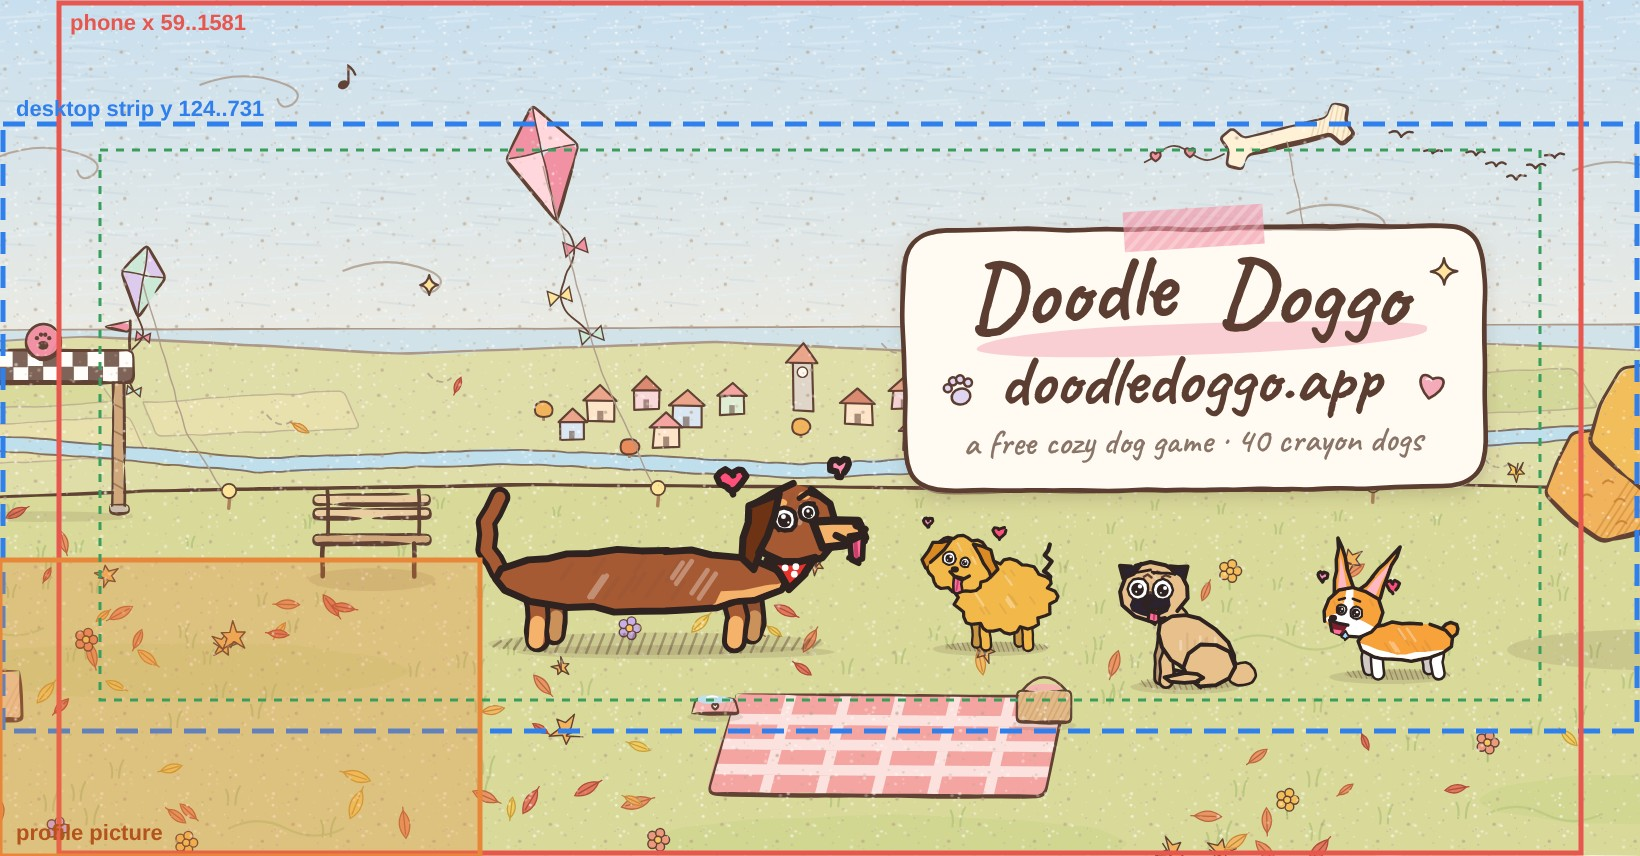
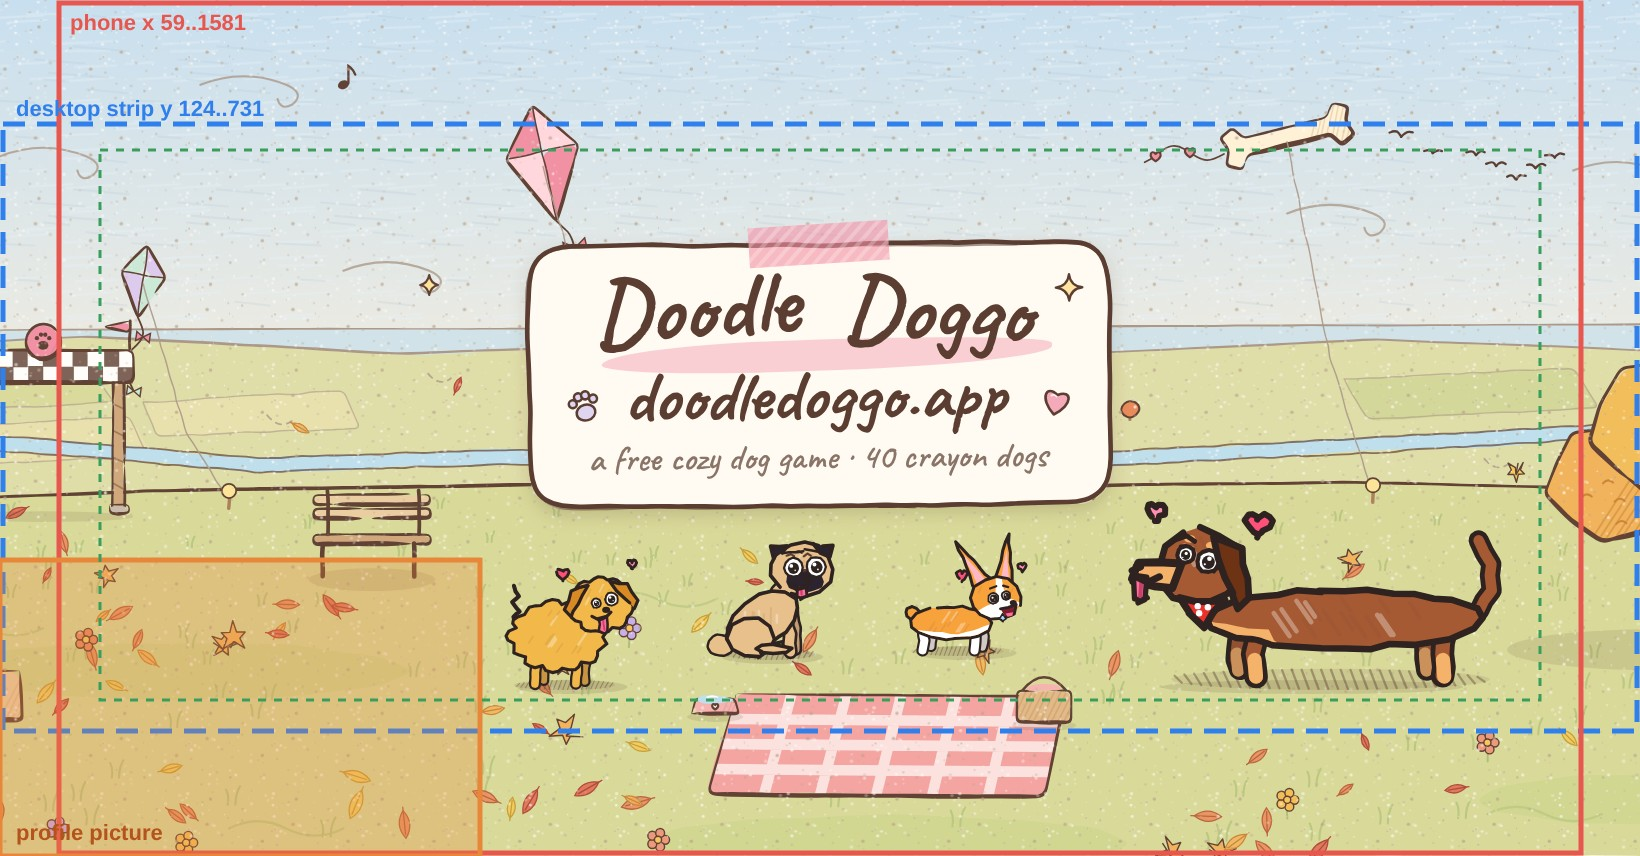
Marketing: Facebook cover with the word box in the centre (owner)
Box centred at x 820 (a little lower, clear of the pink kite); Noodle now right of the box,
golden, pug and corgi under it, clear of the picnic blanket and the profile-picture corner.

Claude-Session: https://claude.ai/code/session_01D6KLY4Gxx78VuyjbRFaSgb

Changed region(s): [[0.2799, 0.243, 0.9329, 0.8201]]

diff --git a/brand/instagram/launch/make_facebook.js b/brand/instagram/launch/make_facebook.js
@@ -1,6 +1,6 @@
 // Facebook Page cover photo (1640 x 856). Desktop shows the middle 2.7:1 strip (y ~124..731), phones show the full height but crop the
 // sides (x ~59..1581), and the Page's profile picture covers the bottom-left corner on both. So the word box, the website and every dog live
-// inside x 100..1540, y 150..700, nothing important sits at x < 480 with y > 560, and the word box stays centre-right.
+// inside x 100..1540, y 150..700, nothing important sits at x < 480 with y > 560, and the word box sits in the centre.
 // Background: the game's Hilltop Meadow on a sunny autumn day (world C 'hilltop', v2.15 art: kites, the village, the river), drawn to fill.
 // Dogs are laid out from their own bounding boxes (hearts included) and checked against each other, the word box and the scene's floor props;
 // every text line is centred in the box by its ink (measured from pixels), and the script throws if anything overlaps or leaves its area.
@@ -32,8 +32,8 @@ module.exports = async function ({ render, browser, helpers: h }) {
       return [x0, y0, x1 + 1, y1 + 1]; }, png);
   };
 
-  // ---------- the word box: centre-right, over the horizon, never under the profile picture ----------
-  const BX = 905, BW = 580, BY = 228, BH = 262, CX = BX + BW / 2, CY = BY + BH / 2;
+  // ---------- the word box: centred (owner, 18 Nov 2026), over the horizon, never under the profile picture ----------
+  const BX = 820 - 290, BW = 580, BY = 244, BH = 262, CX = BX + BW / 2, CY = BY + BH / 2;
   const L = [ // [fragment maker(x, y), first-guess baseline]
     [(x, y) => wordmark(x, y, 92), BY + 100],
     [(x, y) => txt('doodledoggo.app', x, y, 72), BY + 182],
@@ -57,14 +57,14 @@ module.exports = async function ({ render, browser, helpers: h }) {
   const boxG = `<g filter="url(#dd-shadow)"><rect x="${BX}" y="${BY}" width="${BW}" height="${BH}" rx="34" fill="#FFFBF2"/></g>${box(BX, BY, BW, BH, 34, 42, 2.6, 4.6)}${tape(CX - 70, BY - 20, 140, 40, -3)}`
     + words + deco.map(([k, x, y, s, r]) => doodle(k, x, y, s, r)).join('');
 
-  // ---------- the dogs: Noodle biggest, left of the box; three friends on the grass under it ----------
+  // ---------- the dogs: Noodle biggest, right of the box; three friends on the grass under it, clear of the picnic blanket ----------
   const bbox = (svg) => mp.evaluate((sv) => { const w = document.createElement('div'); w.innerHTML = sv; document.body.appendChild(w); const e = w.querySelector('svg'); e.setAttribute('width', 240); e.setAttribute('height', 200); const b = e.getBBox(); w.remove(); return [b.x, b.y, b.width, b.height]; }, svg);
   await mp.setContent('<body></body>');
   const cast = [ // key, pose, left x, feet y, height, outfit, facing
-    ['dachs', 'happy', 486, 655, 196, { neck: 'Red Bandana' }, 'right'],
-    ['golden', 'happy', 922, 652, 134, null, 'left'],
-    ['pug', 'sit', 1120, 690, 128, null, 'left'],
-    ['corgi', 'happy', 1318, 680, 142, null, 'left'],
+    ['dachs', 'happy', 1132, 690, 186, { neck: 'Red Bandana' }, 'left'],
+    ['golden', 'happy', 506, 690, 130, null, 'right'],
+    ['pug', 'sit', 712, 660, 118, null, 'right'],
+    ['corgi', 'happy', 906, 656, 122, null, 'right'],
   ];
   let dogsG = ''; const dogR = [];
   for (const [k, pose, x, feet, hh, outfit, facing] of cast) {
